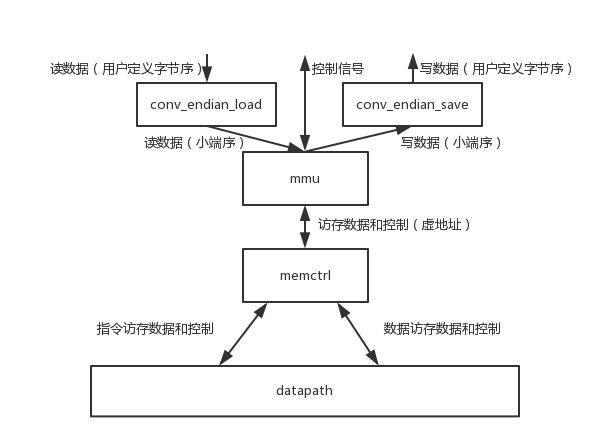
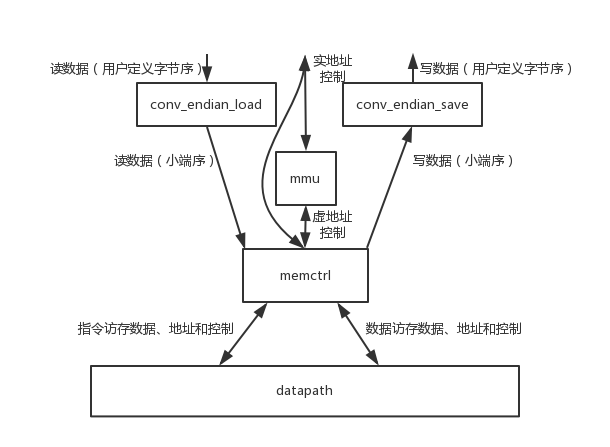
memctrl doc

diff --git a/设计文档/设计文档.tex b/设计文档/设计文档.tex
@@ -1056,6 +1056,57 @@ datapath实体的接口定义见Table~\ref{tb:datapath-interface}。
 \label{tb:datapath-interface}
 \end{longtable}
 
+\subsubsection{memctrl}
+
+\paragraph{功能}\mbox{}
+
+处理指令访存（取指）和数据访存之间的结构冲突。
+
+\paragraph{接口}\mbox{}
+
+memctrl实体的接口定义见Table~\ref{tb:memctrl-interface}。
+\begin{longtable}{l|l|l|l|p{5cm}}
+\hline
+\textbf{信号}&\textbf{宽度}&\textbf{I/O}&\textbf{来源/去向}&\textbf{功能} \\
+\hline \endhead instData\_o    & InstWidth              & O     & datapath      & 指令读数据 \\
+\hline instAddr\_i             & AddrWidth              & I     & datapath      & 指令读地址 \\
+\hline instEnable\_i           & 1                      & I     & datapath      & 指令读使能 \\
+\hline instStall\_o            & 1                      & O     & datapath      & 指令访存暂停 \\
+\hline instExcept\_o           & ExceptionCauseWidth    & O     & datapath      & 指令访存异常 \\
+\hline dataData\_o             & DataWidth              & O     & datapath      & 数据读数据 \\
+\hline dataData\_i             & DataWidth              & I     & datapath      & 数据写数据 \\
+\hline dataAddr\_i             & AddrWidth              & I     & datapath      & 数据读/写地址 \\
+\hline dataEnable\_i           & 1                      & I     & datapath      & 数据访存使能 \\
+\hline dataWrite\_i            & 1                      & I     & datapath      & 数据写使能 \\
+\hline dataByteSelect\_i       & 3..0                   & I     & datapath      & 数据字节选择 \\
+\hline dataStall\_i            & 1                      & O     & datapath      & 数据访存暂停 \\
+\hline dataExcept\_o           & ExceptionCauseWidth    & O     & datapath      & 数据访存异常 \\
+\hline devData\_i              & DataWidth              & I     & conv\_endian\_load & 统一访存读数据 \\
+\hline devData\_o              & DataWidth              & O     & conv\_endian\_save & 统一访存写数据 \\
+\hline devAddr\_o              & AddrWidth              & O     & mmu           & 统一访存读/写地址 \\
+\hline devEnable\_o            & 1                      & O     & mmu           & 统一访存访存使能 \\
+\hline devWrite\_o             & 1                      & O     & 上层          & 统一访存写使能 \\
+\hline devByteSelect\_o        & 3..0                   & O     & 上层          & 统一访存字节选择 \\
+\hline devBusy\_i              & 1                      & I     & 上层          & 统一访存访存暂停 \\
+\hline devExcept\_i            & ExceptionCauseWidth    & I     & mmu           & 统一访存访存异常 \\
+\hline
+\caption{memctrl实体的接口}
+\label{tb:memctrl-interface}
+\end{longtable}
+
+\paragraph{设计}\mbox{}
+
+memctrl是组合逻辑电路，与时钟无关。
+
+处理指令访存与数据访存的结构冲突时，数据访存的优先级更高。因为如果反过来，优先进行指令访存，而暂停了流水线的访存阶段（数据访存），其之前的取指阶段（指令访存）也会被暂停，导致两种访存都无法进行。因此，memctrl实体的逻辑如下：
+
+\begin{enumerate}
+    \item 当数据访存被使能时，向datapath发出暂停流水线取指阶段（插入空泡）的请求，将去往/来自上层的数据访存的信号与去往/来自下层的统一访存信号相连，忽略指令访存使能信号；
+    \item 否则，当指令访存被使能时，将去往/来自上层的指令访存的信号与去往/来自下层的统一访存信号相连，并补充指令访存省略的相关控制信号，例如写使能为低电平。
+\end{enumerate}
+
+从上述逻辑可以看出，memctrl本质上是一个多路二选一选择器。
+
 %%%%%%%%%%%%%%%%%%%%%%
 %     BODY END       %
 %%%%%%%%%%%%%%%%%%%%%%
